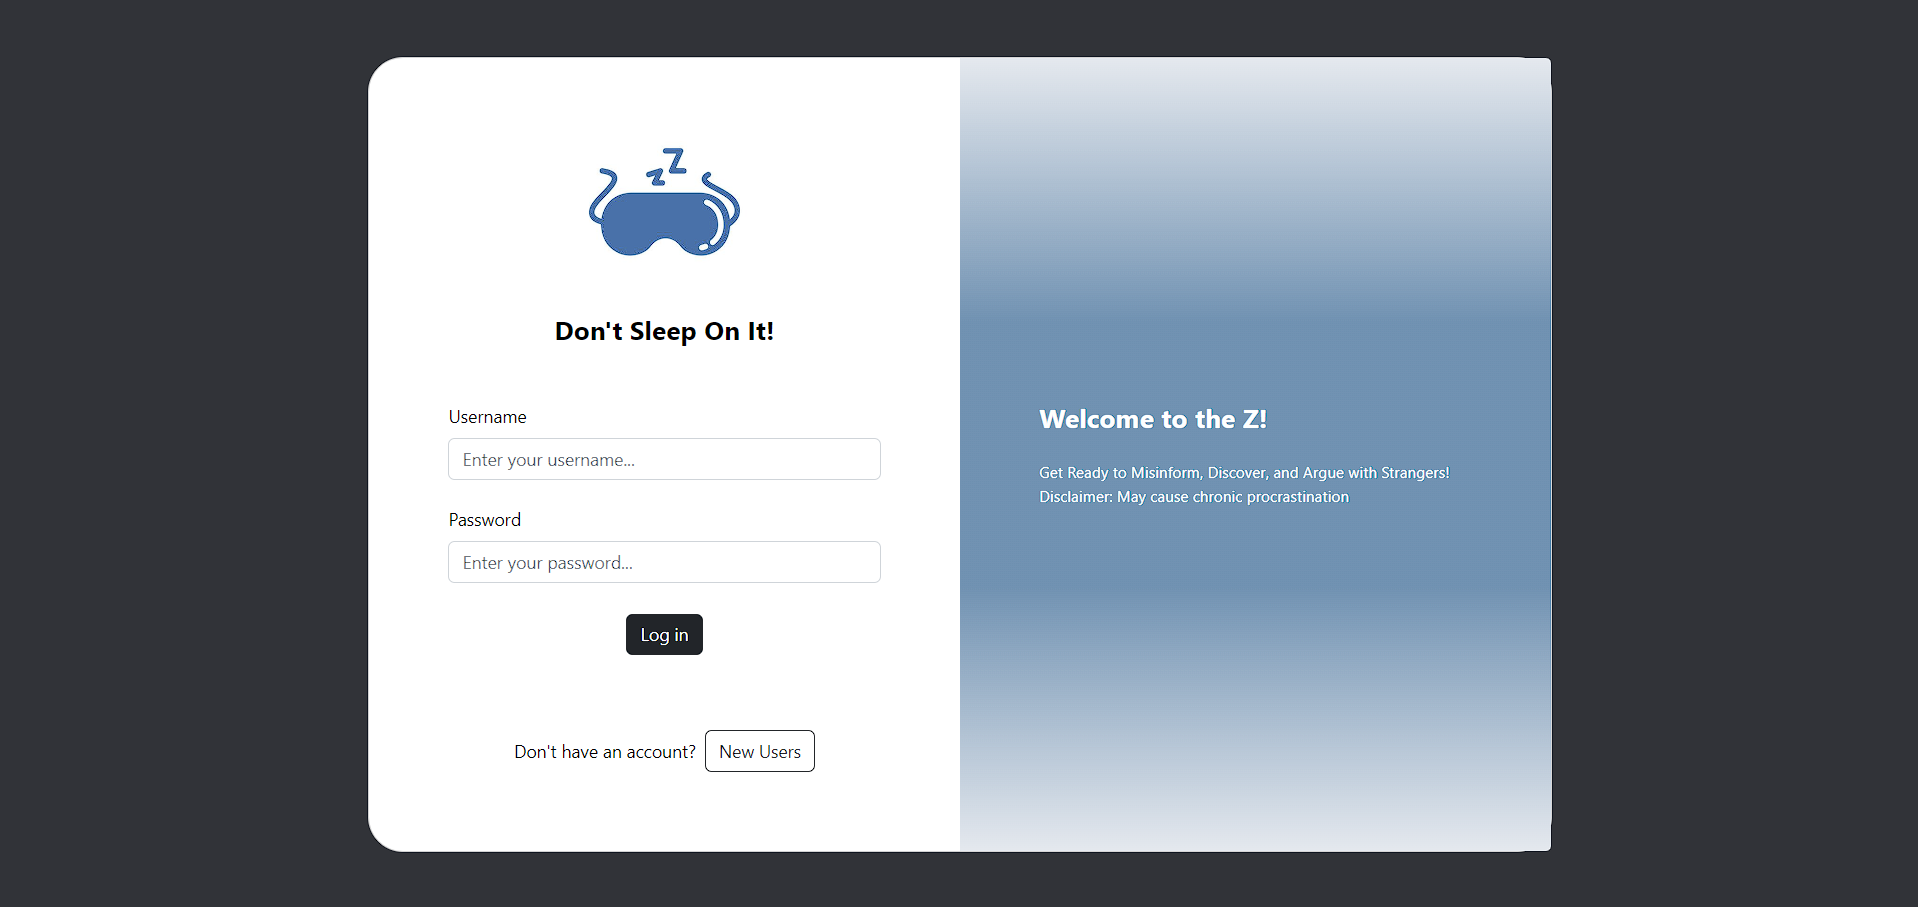
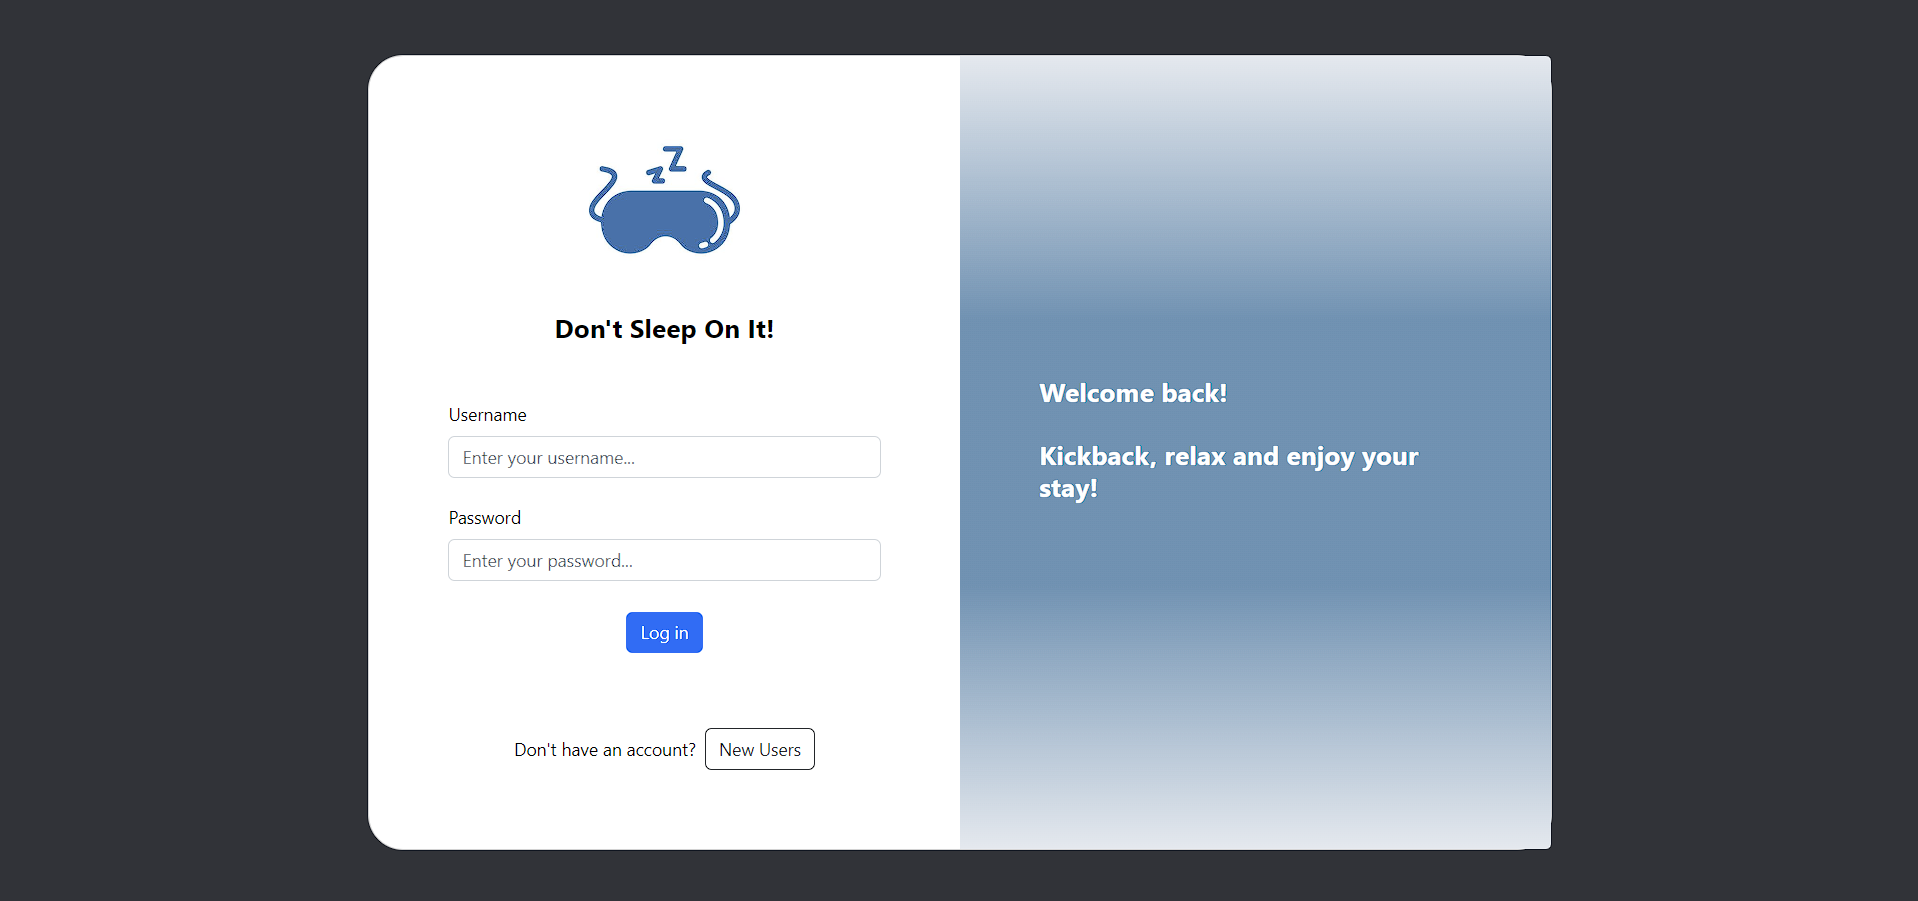
updated readme

diff --git a/index.html b/index.html
@@ -53,8 +53,8 @@
                             </div>
           
                             <div class="text-center pt-1 mb-5 pb-1">
-                              <button class="btn btn-dark btn-block fa-lg mb-3" type="submit" id="loginButton">Log
-                                in</button>
+                              <button class="btn btn-primary btn-block fa-lg mb-3" type="submit" id="loginButton">Log in</button>
+
                             </div>
           
                             <div class="d-flex align-items-center justify-content-center pb-4">
@@ -70,8 +70,8 @@
                       </div>
                       <div class="col-lg-6 d-flex align-items-center gradient-custom-2">
                         <div class="text-white px-3 py-4 p-md-5 mx-md-4">
-                          <h4 class="mb-4 fw-bolder">Welcome to the Z!</h4>
-                          <p class="small mb-0">Get Ready to Misinform, Discover, and Argue with Strangers! Disclaimer: May cause chronic procrastination</p>
+                          <h4 class="mb-4 fw-bolder">         Welcome back! <br><br>Kickback, relax and enjoy your stay!</h4>
+                          <p class="small mb-0"></p>
                         </div>
                       </div>
                     </div>

diff --git a/style/landing.css b/style/landing.css
@@ -1,14 +1,13 @@
 /* Landing Page CSS */
 .gradient-custom-2 {
-    background: #322d26;
+    background: #2b2632;
     
-    /* Chrome 10-25, Safari 5.1-6 */
-    background: -webkit-linear-gradient(to bottom, #e4e9ef, #6793b5, #6793b5, #06152a);
+   /* Chrome 10-25, Safari 5.1-6 */
+   background: -webkit-linear-gradient(to bottom, #e4e9ef, #6793b5, #6793b5, #06152a);
     
-    /* W3C, IE 10+/ Edge, Firefox 16+, Chrome 26+, Opera 12+, Safari 7+ */
-    background: linear-gradient(to bottom, #e4e9ef, #6793b5, #6793b5, #e4e9ef);
-    }
-    
+   /* W3C, IE 10+/ Edge, Firefox 16+, Chrome 26+, Opera 12+, Safari 7+ */
+   background: linear-gradient(to bottom, #e4e9ef, #6793b5, #6793b5, #e4e9ef);
+   }
     @media (min-width: 768px) {
     .gradient-form {
     height: 100vh !important;

diff --git a/registration.html b/registration.html
@@ -61,7 +61,7 @@
                       <p id="msg"></p>
                     
                       <div class="text-center pt-1 mb-5 pb-1">
-                        <button class="btn btn-dark btn-block fa-lg mb-3" type="button" id="register">Register User</button>
+                        <button class="btn btn-primary btn-block fa-lg mb-3" type="button" id="register">Register User</button>
                       </div>
     
                       <div class="d-flex align-items-center justify-content-center pb-4">
